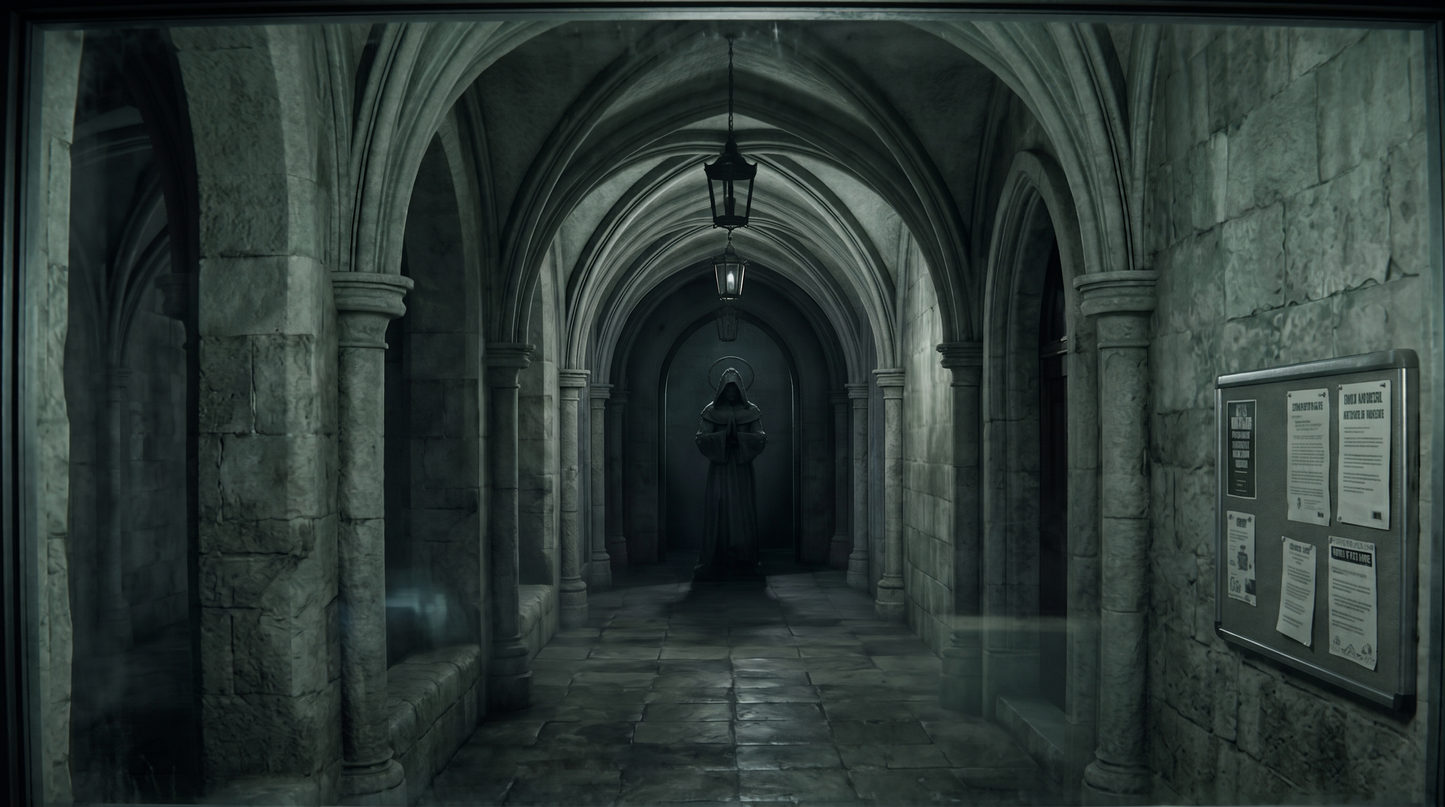
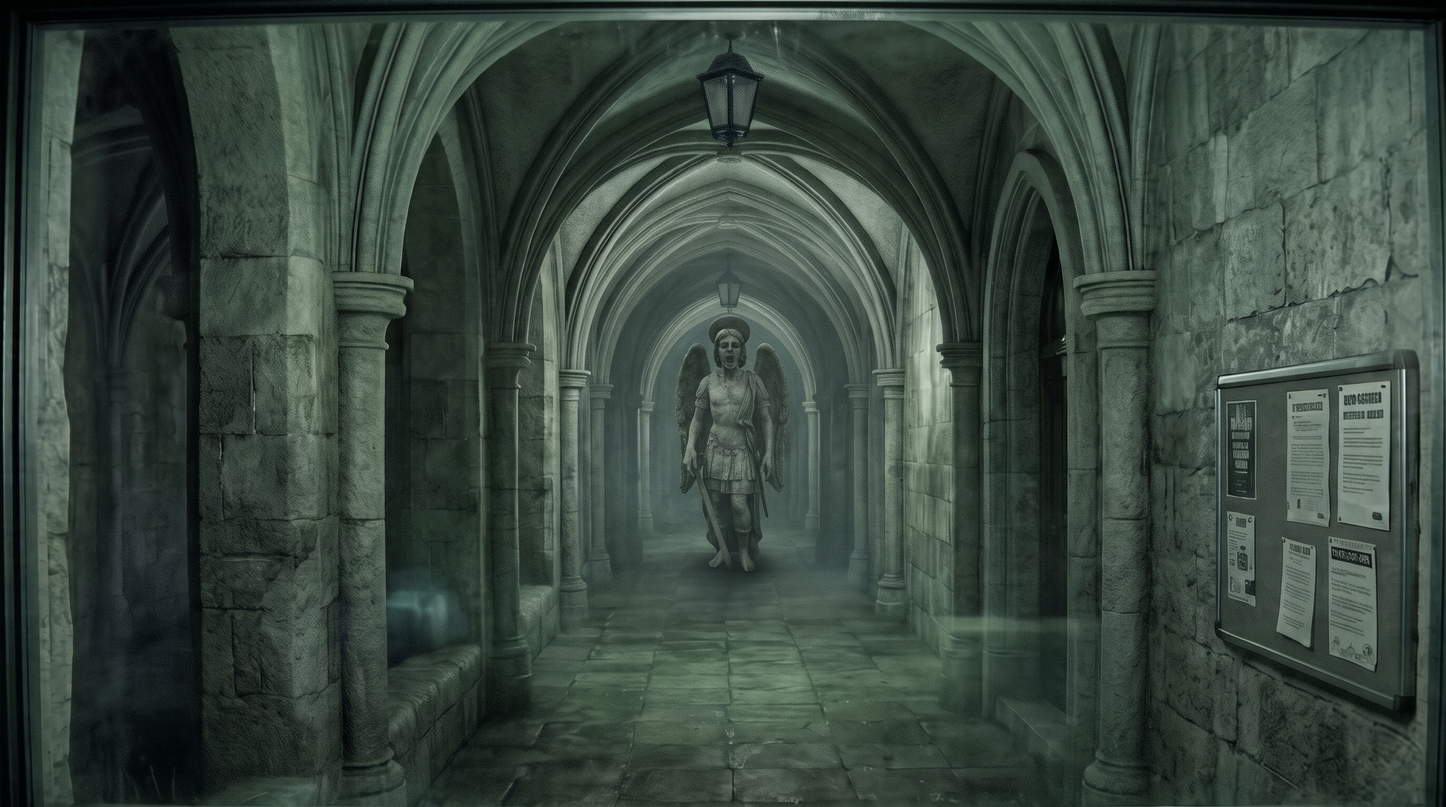
Add Veiled Mourner window hallway far image, integrate updated Saint hallway far image and multi-stage distance progression

diff --git a/js/game.js b/js/game.js
@@ -505,6 +505,7 @@ class GameEngine {
       'assets/office/window_hallway_angel.jpg',
       'assets/office/window_hallway_saint_far.jpg',
       'assets/office/window_hallway_saint.jpg',
+      'assets/office/window_hallway_mary_far.jpg',
       'assets/office/window_hallway_mary.jpg',
       'assets/office/door_peeking_angel.jpg',
       'assets/office/door_peeking_saint.jpg',
@@ -866,7 +867,8 @@ class GameEngine {
       saint_close: texLoader.load('assets/office/window_hallway_saint.jpg'),
       angel: texLoader.load('assets/office/window_hallway_angel.jpg'),
       saint: texLoader.load('assets/office/window_hallway_saint.jpg'),
-      mary: texLoader.load('assets/office/window_hallway_mary.jpg')
+      mary: texLoader.load('assets/office/window_hallway_mary.jpg'),
+      mary_far: texLoader.load('assets/office/window_hallway_mary_far.jpg')
     };
 
     this.positionStatuesInitial();
@@ -980,7 +982,7 @@ class GameEngine {
 
       const moveToWindow = (Math.random() < 0.50 && isWindowFree);
       if (moveToWindow) {
-        this.aiConfig.weepingAngel.location = 'WINDOW';
+        this.aiConfig.weepingAngel.location = 'WINDOW'; this.aiConfig.weepingAngel.windowDist = 'far';
         this.aiConfig.weepingAngel.stage = 1;
         this.aiConfig.weepingAngel.windowTimer = 0;
         this._lastAngelStage = 1;
@@ -1043,7 +1045,7 @@ class GameEngine {
 
       const moveToWindow = (Math.random() < 0.50 && isWindowFree);
       if (moveToWindow) {
-        this.aiConfig.haloedSaint.location = 'WINDOW';
+        this.aiConfig.haloedSaint.location = 'WINDOW'; this.aiConfig.haloedSaint.windowDist = 'far';
         this.aiConfig.haloedSaint.stage = 1;
         this.aiConfig.haloedSaint.windowTimer = 0;
         this._lastSaintStage = 1;
@@ -1106,7 +1108,7 @@ class GameEngine {
 
       const moveToWindow = (Math.random() < 0.45 && isWindowFree);
       if (moveToWindow) {
-        this.aiConfig.veiledMourner.location = 'WINDOW';
+        this.aiConfig.veiledMourner.location = 'WINDOW'; this.aiConfig.veiledMourner.windowDist = 'far';
         this.aiConfig.veiledMourner.stage = 1;
         this.aiConfig.veiledMourner.doorApproach = false;
         this.aiConfig.veiledMourner.windowTimer = 0;
@@ -1483,9 +1485,13 @@ class GameEngine {
           pose2.visible = false;
         }
         break;
-      case 1: // CAM 05 - Cloister Hallway approach
-      case 2: // CAM 05 - Right outside observation window
-        saint.visible = false; // Photorealistically displayed on windowBackdrop!
+      case 1: // Window Hallway approach
+        saint.visible = false;
+        this.aiConfig.haloedSaint.windowDist = 'far';
+        this.aiConfig.haloedSaint.windowTimer = 0;
+        break;
+      case 2: // Outside left door
+        saint.visible = false;
         break;
       case 3: // Exactly outside the Left Arched Church Doorway threshold in the outer cloister hallway!
         saint.position.set(-4.20, 0.0, -0.60);
@@ -1888,11 +1894,17 @@ class GameEngine {
     // Strict Window Glass Isolation: ONLY entities specifically at the front window glass ('WINDOW') appear here!
     // When an entity is at CAM_05 (outside the left door), it must NOT appear on the window glass.
     if (angelLoc === 'WINDOW') {
-      targetTex = this.windowTextures.angel_close;
+      targetTex = (this.aiConfig.weepingAngel.windowDist === 'close')
+        ? this.windowTextures.angel_close
+        : (this.windowTextures.angel_far || this.windowTextures.angel_close);
     } else if (saintLoc === 'WINDOW') {
-      targetTex = this.windowTextures.saint_close;
+      targetTex = (this.aiConfig.haloedSaint.windowDist === 'close')
+        ? this.windowTextures.saint_close
+        : (this.windowTextures.saint_far || this.windowTextures.saint_close);
     } else if (mournerLoc === 'WINDOW') {
-      targetTex = this.windowTextures.mary;
+      targetTex = (this.aiConfig.veiledMourner.windowDist === 'close')
+        ? this.windowTextures.mary
+        : (this.windowTextures.mary_far || this.windowTextures.mary);
     }
 
     const mat = this.world.nodes.windowBackdropMat;
@@ -4234,6 +4246,15 @@ class GameEngine {
       }
       ai.windowTimer = (ai.windowTimer || 0) + delta;
       const windowPatience = isNight6OrHard ? 2.2 : 3.5;
+      const stepCloseThreshold = windowPatience * 0.45;
+
+      if ((ai.windowDist || 'far') === 'far' && ai.windowTimer >= stepCloseThreshold) {
+        ai.windowDist = 'close';
+        this.updateWindowHallwayView();
+        window.Sound.playStoneGrind(0.5);
+        window.Sound.playLeftFootstep(0.6);
+      }
+
       if (ai.windowTimer >= windowPatience) {
         ai.windowTimer = 0;
         // MISSED! Moves closer: near CAM 05 or CAM 03 (CAM 04 vent is strictly isolated to Mourner)
@@ -4471,6 +4492,15 @@ class GameEngine {
       }
       ai.windowTimer = (ai.windowTimer || 0) + delta;
       const windowPatience = isNight6OrHard ? 2.2 : 3.5;
+      const stepCloseThreshold = windowPatience * 0.45;
+
+      if ((ai.windowDist || 'far') === 'far' && ai.windowTimer >= stepCloseThreshold) {
+        ai.windowDist = 'close';
+        this.updateWindowHallwayView();
+        window.Sound.playStoneGrind(0.5);
+        window.Sound.playLeftFootstep(0.6);
+      }
+
       if (ai.windowTimer >= windowPatience) {
         ai.windowTimer = 0;
         // MISSED! Moves closer: near CAM 05 or CAM 01 (CAM 04 vent is strictly isolated to Mourner)
@@ -4745,6 +4775,15 @@ class GameEngine {
       }
       ai.windowTimer = (ai.windowTimer || 0) + delta;
       const windowPatience = isNight6OrHard ? 2.2 : 3.5;
+      const stepCloseThreshold = windowPatience * 0.45;
+
+      if ((ai.windowDist || 'far') === 'far' && ai.windowTimer >= stepCloseThreshold) {
+        ai.windowDist = 'close';
+        this.updateWindowHallwayView();
+        window.Sound.playStoneGrind(0.5);
+        window.Sound.playLeftFootstep(0.6);
+      }
+
       if (ai.windowTimer >= windowPatience) {
         ai.windowTimer = 0;
         // MISSED! Moves closer: 50% chance to flank Left Door (CAM 05) or 50% chance to enter Vent (CAM 04)

diff --git a/index.html b/index.html
@@ -1507,10 +1507,10 @@
   </script>
 
   <!-- Game Modules -->
-  <script src="js/audio.js?v=20261111_v64"></script>
-  <script src="js/textures.js?v=20261111_v64"></script>
-  <script src="js/models.js?v=20261111_v64"></script>
-  <script src="js/extras.js?v=20261111_v64"></script>
-  <script src="js/game.js?v=20261111_v64"></script>
+  <script src="js/audio.js?v=20261112_v65"></script>
+  <script src="js/textures.js?v=20261112_v65"></script>
+  <script src="js/models.js?v=20261112_v65"></script>
+  <script src="js/extras.js?v=20261112_v65"></script>
+  <script src="js/game.js?v=20261112_v65"></script>
 </body>
 </html>
